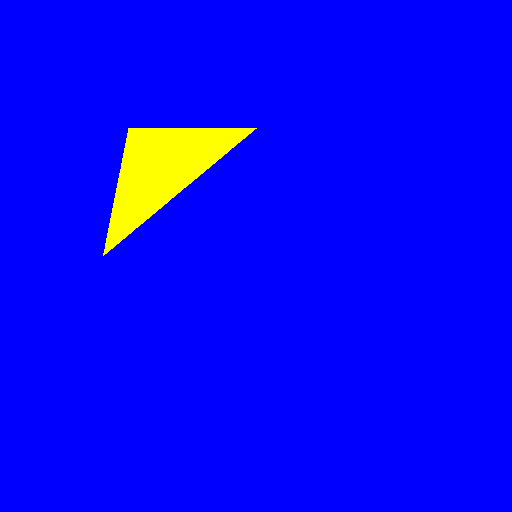
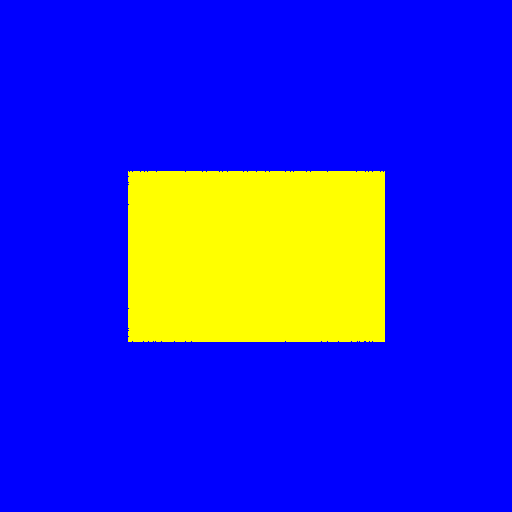
I can draw rectangle!

Changed region(s): [[0.1875, 0.25, 0.75, 0.6875]]

diff --git a/Lib/geom.h b/Lib/geom.h
@@ -31,7 +31,31 @@ struct Ray {
 
 struct Triangle {
     Vec a, b, c;
+    Triangle() : a(), b(), c() {}
     Triangle(Vec _a, Vec _b, Vec _c) : a(_a), b(_b), c(_c) {}
 };
 
 float intersect(Triangle, Ray);
+
+struct Object {
+    int triangles_number;
+    Triangle *triangles;
+    Object() {
+        triangles_number = 0;
+        triangles = NULL;
+    }
+    float intersect(Ray r);
+};
+
+struct Rectangle : public Object {
+    Rectangle(Vec center, Vec first, Vec second) {
+        triangles_number = 2;
+        Vec b(center + first);
+        Vec a(center - second);
+        Vec c(center + second);
+        Vec d(center - first);
+        triangles = new Triangle[2];
+        triangles[0] = Triangle(a, b, c);
+        triangles[1] = Triangle(a, c, d);
+    }
+};

diff --git a/Source/main.cpp b/Source/main.cpp
@@ -24,11 +24,12 @@ render(int size) {
     }
     float size_f = size;
     Vec me(size_f / 2, size_f / 2, size_f * 2);
+    Rectangle rect(Vec(size / 2, size / 2, 0), Vec(size / 2, size / 3, 0), Vec(-size / 2, size / 3, 0));
     Triangle tr(Vec(0, 0, 0), Vec(0, size_f / 2, size_f / 3), Vec(size_f / 2, 0, 0));
     for (int x = 0; x < size; x++) {
         for (int y = 0; y < size; y++) {
             Ray ray = Ray(me, (Vec(x, y, size) - me).normalize());
-            if (intersect(tr, ray) > 0) {
+            if (rect.intersect(ray) > 0) {
                 buffer[x + y * size] = Color(1, 1, 0, 1);
             }
         }

diff --git a/Source/geom.cpp b/Source/geom.cpp
@@ -1,4 +1,5 @@
 #include "geom.h"
+#include <iostream>
 
 float 
 dot(Vec v1, Vec v2) {
@@ -47,4 +48,19 @@ intersect(Triangle t, Ray r) {
     }
 
     return dot(e2, qvec) * inv_det;
+}
+
+float
+Object::intersect(Ray ray) {
+    if (!triangles) {
+        return 0;
+    }
+    float res = 0;
+    for (int i = 0; i < triangles_number; i++) {
+        float dist = ::intersect(triangles[i], ray);
+        if (dist > 0 && (res == 0 || dist < res)) {
+            res = dist;
+        }
+    }
+    return res;
 }
